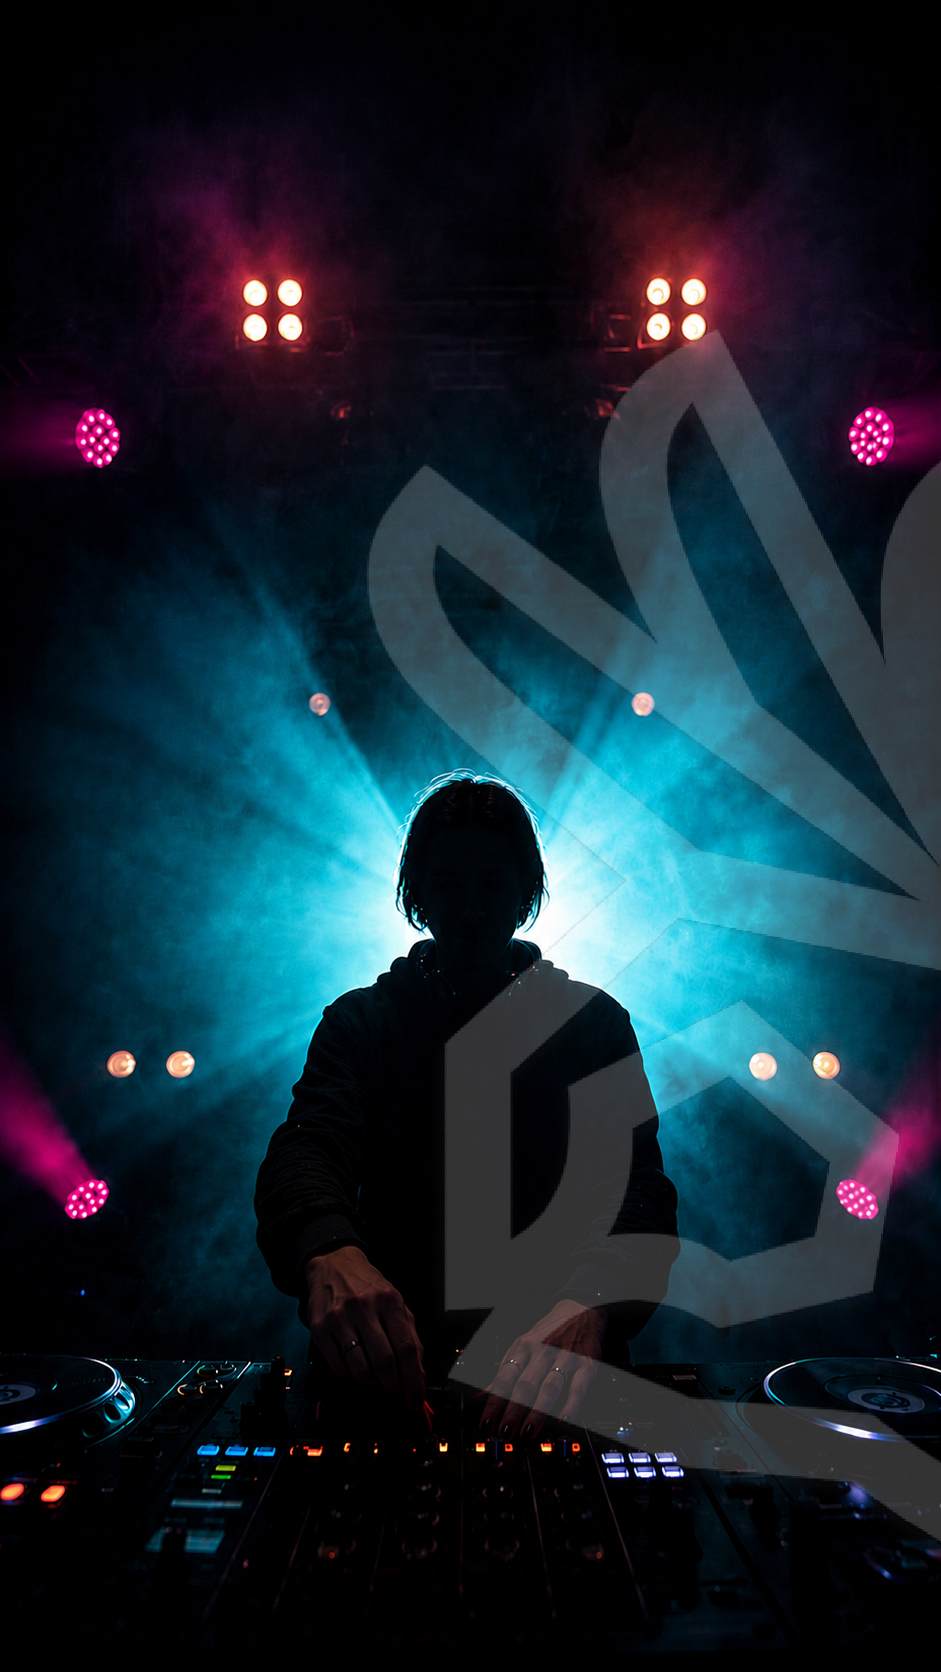
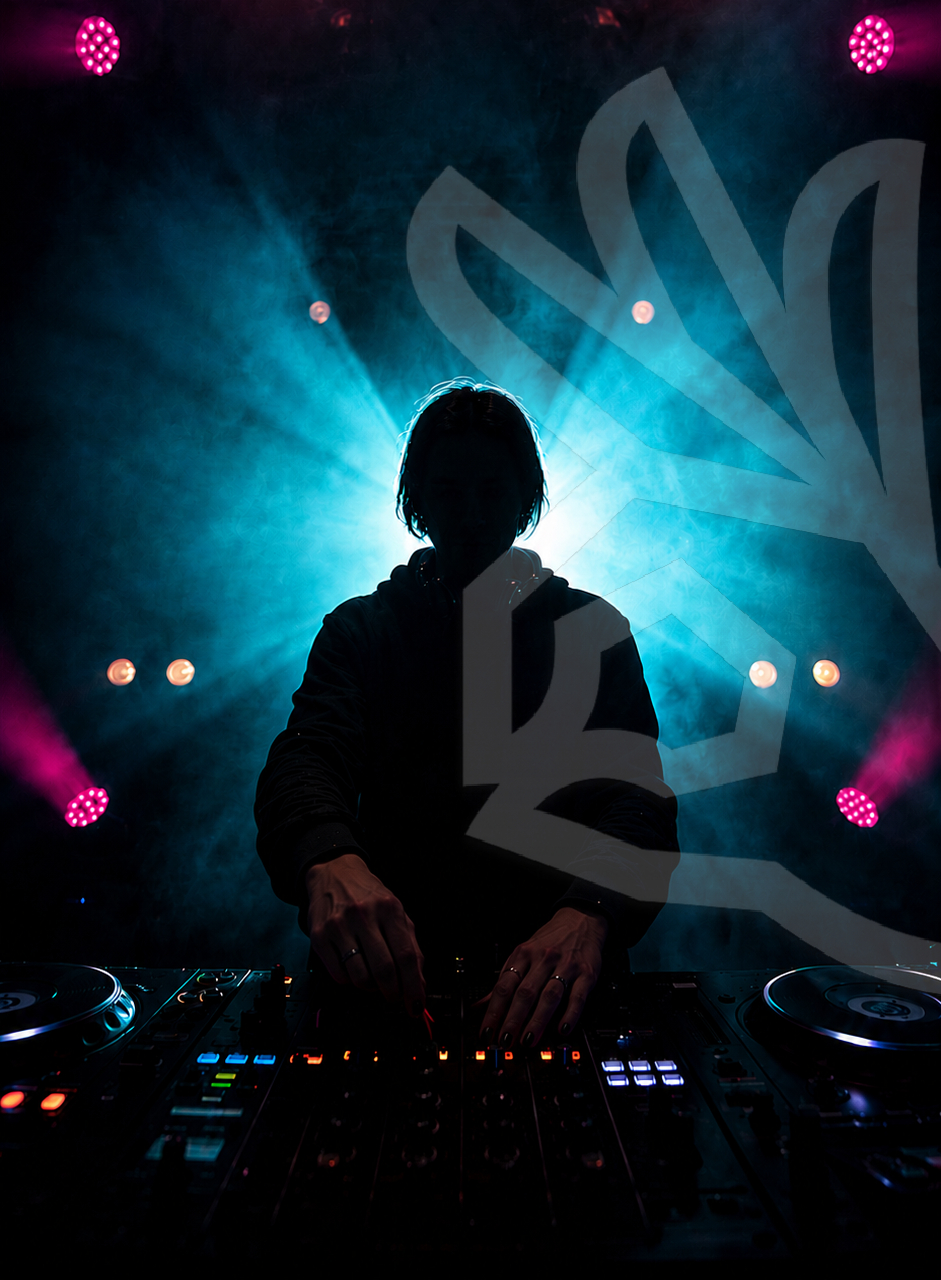
Corrected DJ default artwork (941x1280)
Owner supplied a replacement in the same folder: defaultdj20a.jpg,
which supersedes defaultdj20.jpg. Copy hash-verified against source.

⚠ THIS ONE IS NOT THE SAME SHAPE — 941x1280 (ratio 0.74) against the
previous 941x1672 (0.56). Checked rather than assumed, because a
by-name swap at a changed aspect ratio is precisely what went wrong two
swaps ago. Here it is intentional: the owner cropped the haze off at
source, and it is plainly the same photograph.

Nothing needed changing in the CSS. The hero uses `cover` with
`center calc(100% - 9dvh)`, which is ratio-tolerant by design — the
9dvh lift is a fixed offset from the bottom, so it behaves identically
whatever the overflow, and the comment already noted it works for the
landscape defaults too.

Measured in a browser rather than reasoned about: at 680px the image
renders 925px in a 917px frame, so it still fills vertically with 8px
to spare. No letterboxing, subject retained.

The comment's arithmetic WAS load-bearing documentation and is now
history — 291px of crop has become ~8px. Rewritten to say so, and to
warn against "simplifying" the bottom anchor away on the grounds that
today's image barely overflows: that is an argument about one file, not
about the rule, and dropping it is the exact crop that ate the subject
before.

631 tests pass, clean build.

diff --git a/v2/src/screens/ProfileScreen.jsx b/v2/src/screens/ProfileScreen.jsx
@@ -596,7 +596,7 @@ export default function ProfileScreen() {
               // Default (no photo yet — §09 requires a generic avatar pre-claim).
               // Was `auto 80%`, which sizes by HEIGHT: fine at phone width, but
               // .heroImg is capped at max-width 680px, so on desktop a portrait
-              // placeholder (defaultdj.jpg is 941x1672, ratio 0.56) rendered only
+              // placeholder (defaultdj.jpg, then 941x1672, ratio 0.56) rendered only
               // ~405px wide inside a 680px frame — 137px of dead space each side,
               // which read as a broken image rather than a placeholder.
               // `cover` fills the frame at every width, exactly as a real photo
@@ -605,12 +605,22 @@ export default function ProfileScreen() {
               //
               // Anchored BOTTOM, overriding .heroImg's `center top`. These
               // placeholders put their subject low in the frame — defaultdj.jpg
-              // is silhouette, hands and decks across its bottom ~55%, with the
-              // top 40% only lights and haze. At 680px wide the image renders
-              // 1208px tall in a 917px frame, so `top` cropped 291px off the
-              // foot and threw away the entire subject, leaving a photo of an
-              // empty ceiling. Anchoring to the bottom keeps the figure and
+              // is silhouette, hands and decks across its lower half, with only
+              // lights and haze above. When it was 941x1672 it rendered 1208px
+              // tall in a 917px frame at 680px wide, so `top` cropped 291px off
+              // the foot and threw away the entire subject, leaving a photo of
+              // an empty ceiling. Anchoring to the bottom keeps the figure and
               // decks and discards the haze instead.
+              //
+              // ⚠ THE NUMBERS ABOVE ARE HISTORY, THE ANCHOR IS NOT. That
+              // artwork is now 941x1280 (ratio 0.74) — the owner cropped the
+              // haze off at source — so at 680px it renders ~925px in a 917px
+              // frame and there is only ~8px of vertical overflow left to crop.
+              // Bottom-anchoring costs nothing in that case and remains correct
+              // the moment any future placeholder is tall again. Do not
+              // "simplify" it away on the grounds that today's image barely
+              // overflows; that is an argument about one file, not about the
+              // rule, and it is the exact crop that ate the subject last time.
               //
               // Portrait-only concern: at phone width the frame is narrower than
               // the art, so height fills exactly and there is no vertical crop —
